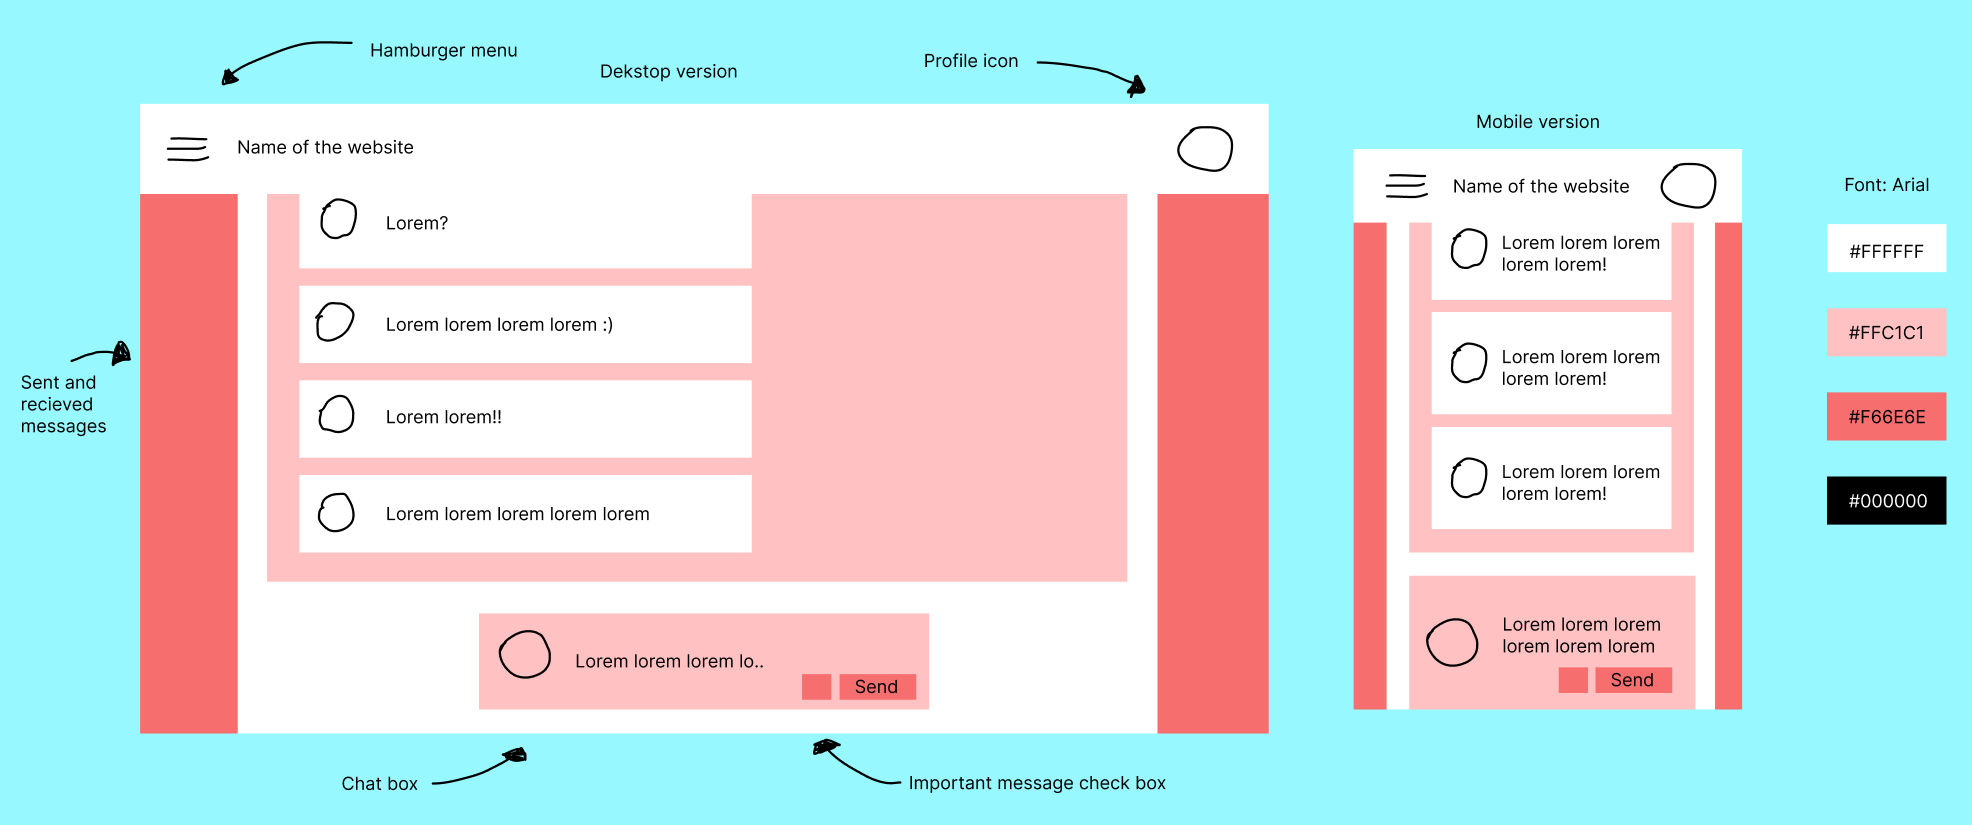
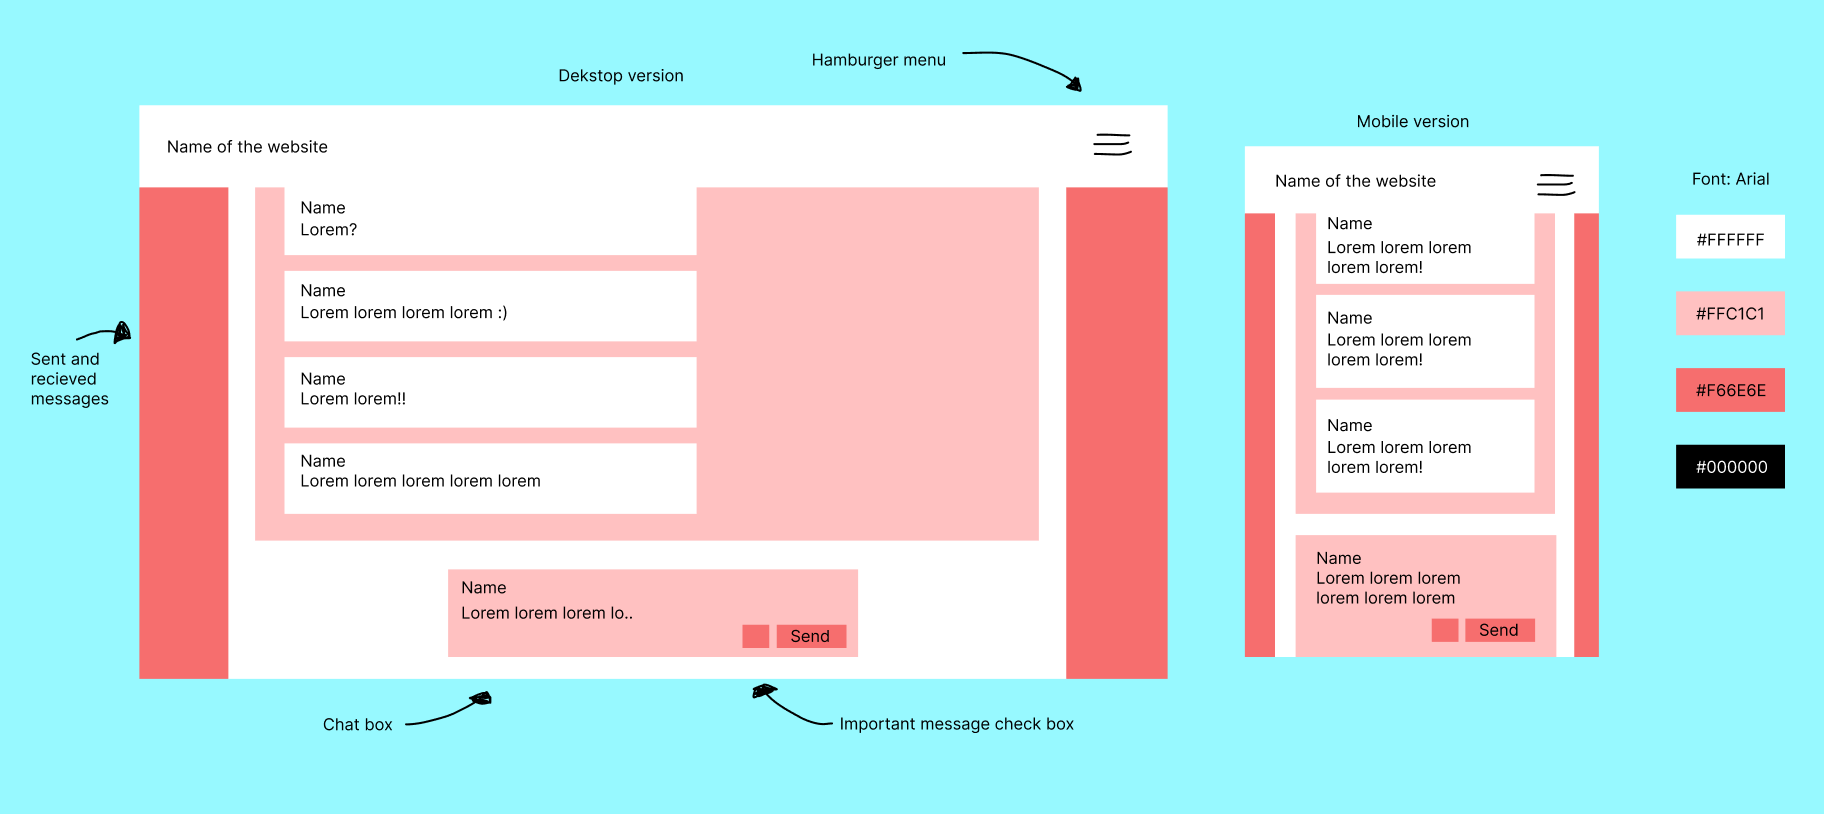
Improvements to the layout

Changed region(s): [[0.0, 0.0614, 1.0, 0.9828], [0.1562, 0.0307, 0.25, 0.0921], [0.75, 0.1229, 0.8125, 0.1843]]

diff --git a/CourseAssignments/style/discussionPage.css b/CourseAssignments/style/discussionPage.css
@@ -1,10 +1,28 @@
 body #container {
-    background-color: #d63d3d;
-    height: 100px;
+    display: flex;
+    justify-content: center;
+}
+
+body #container #discussionBackground {
+    background-color: #ffffff;
+    height: 100vh;
     width: 80vw;
 
     display: flex;
-    flex-direction: column;
-    align-self: center;
-    justify-self: center;
+    flex-wrap: wrap;
+    justify-content: center;
+}
+
+body #container #discussionBackground #messagesBox {
+    background-color: #ffc1c1;
+    height: 70vh;
+    width: 75vw;
+}
+
+body #container #discussionBackground #chatBox {
+    background-color: #ffc1c1;
+    height: 25vh;
+    width: 75vw;
+
+    align-self: flex-end;
 }

diff --git a/CourseAssignments/Pages/discussionPage.html b/CourseAssignments/Pages/discussionPage.html
@@ -49,7 +49,17 @@
     </nav>
 
   <div id="container">
-    <a>ssss</a>
+    <div id="discussionBackground">
+
+        <div id="messagesBox">
+          <a>aaaa</a>
+        </div>
+
+        <div id="chatBox">
+          <a>aaaa</a>
+        </div>
+
+    </div>
   </div>
 
 
